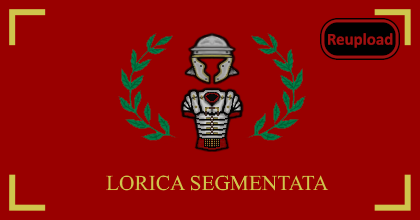
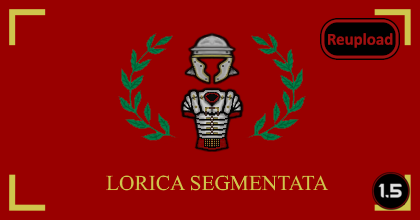
Mod updated for 1.5 and passed autotests

Changed region(s): [[0.8667, 0.7636, 0.9905, 0.9545]]

diff --git a/README.md b/README.md
@@ -35,11 +35,13 @@ A set of Roman Armor befitting Rimworld's Gladius and Pila was nowhere to be fou
 
 -  See if the the error persists if you just have this mod and its requirements active.
 -  If not, try adding your other mods until it happens again.
--  Post your error-log using https://steamcommunity.com/workshop/filedetails/?id=818773962]HugsLib and command Ctrl+F12
+-  Post your error-log using https://steamcommunity.com/workshop/filedetails/?id=818773962]HugsLib or the standalone https://steamcommunity.com/sharedfiles/filedetails/?id=2873415404]Uploader and command Ctrl+F12
 -  For best support, please use the Discord-channel for error-reporting.
 -  Do not report errors by making a discussion-thread, I get no notification of that.
 -  If you have the solution for a problem, please post it to the GitHub repository.
+-  Use https://github.com/RimSort/RimSort/releases/latest]RimSort to sort your mods
 
 
 
+https://steamcommunity.com/sharedfiles/filedetails/changelog/2043866743]![Image](https://img.shields.io/github/v/release/emipa606/LoricaSegmentataArmorSet?label=latest%20version&style=plastic&color=9f1111&labelColor=black)
 
